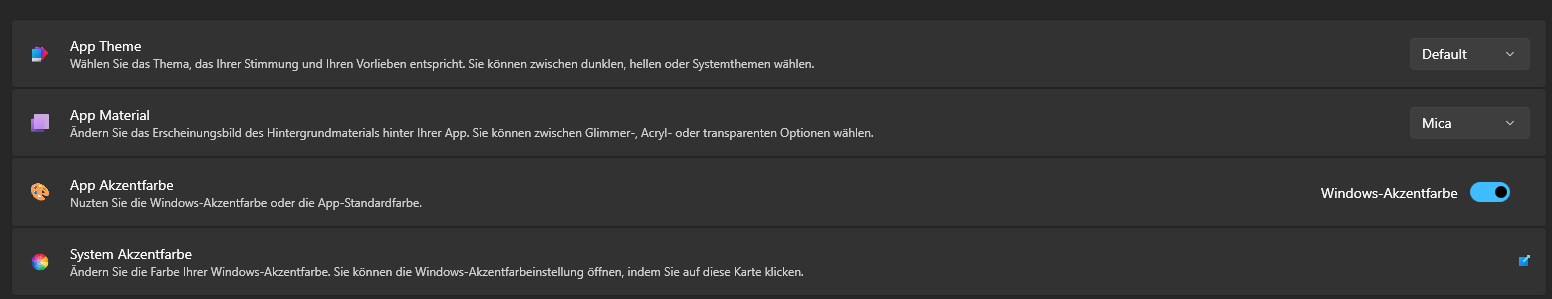
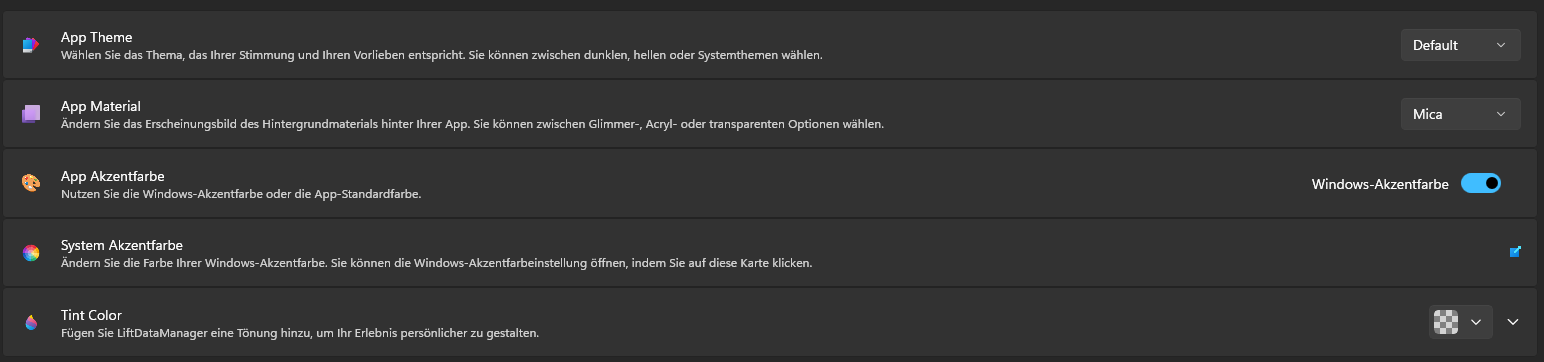
tint color

diff --git a/LiftDataManager/Docs/de/06-Einstellungen/02-Farben und Aussehen/05-Tint Color/TintColor.md b/LiftDataManager/Docs/de/06-Einstellungen/02-Farben und Aussehen/05-Tint Color/TintColor.md
@@ -1,0 +1,9 @@
+# Tint Color
+
+>Fügen Sie LiftDataManager eine Tönung hinzu, um Ihr Erlebnis persönlicher zu gestalten
+
+![image](/LiftDataManager/Docs/HelpImages/image194.png)  
+
+`Hier können Sie LiftDataManager eine Tönung hinzufügen, hierzu muss ein Mica oder Acrylic Hintergrundmaterial ausgewählt sein.`
+
+[//]: # (Tags: Tint Color | Tönung | Mica-Acrylic-Hintergrundmaterial)  

diff --git a/LiftDataManager/Docs/de/06-Einstellungen/02-Farben und Aussehen/Farben und Aussehen.md b/LiftDataManager/Docs/de/06-Einstellungen/02-Farben und Aussehen/Farben und Aussehen.md
@@ -4,4 +4,4 @@
 
 ![image](/LiftDataManager/Docs/HelpImages/image101.png) 
 
-[//]: # (Tags: Farben und Aussehen | App Theme | App Material | App Akzentfarbe | System Akzentfarbe)  
+[//]: # (Tags: Farben und Aussehen | App Theme | App Material | App Akzentfarbe | System Akzentfarbe | Tint Color)  
